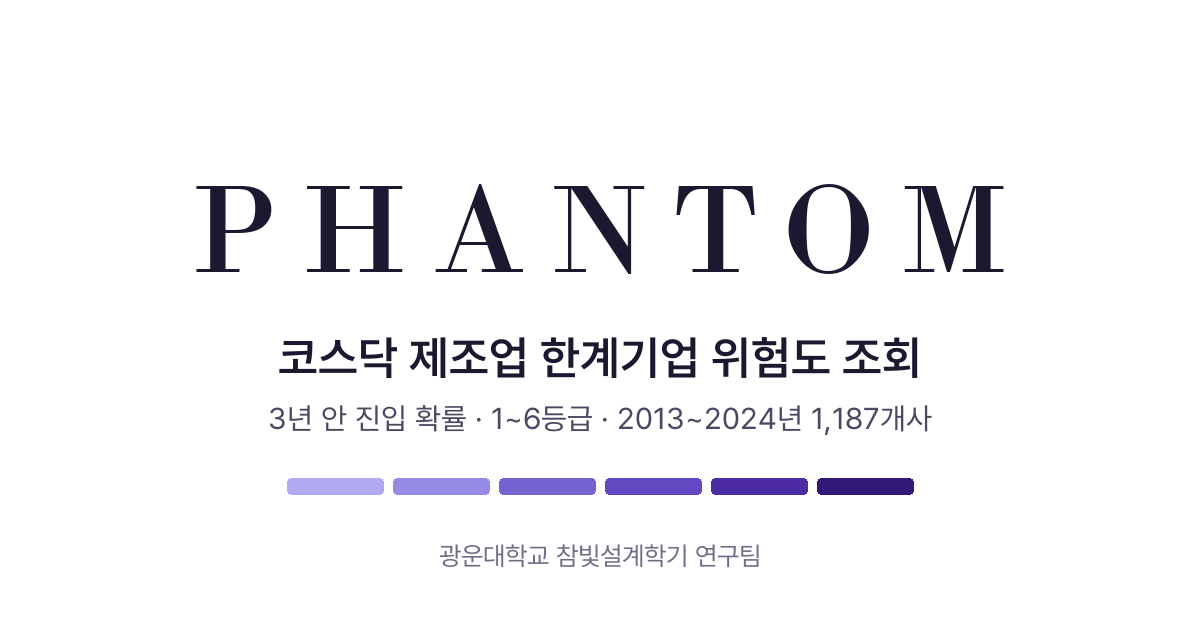
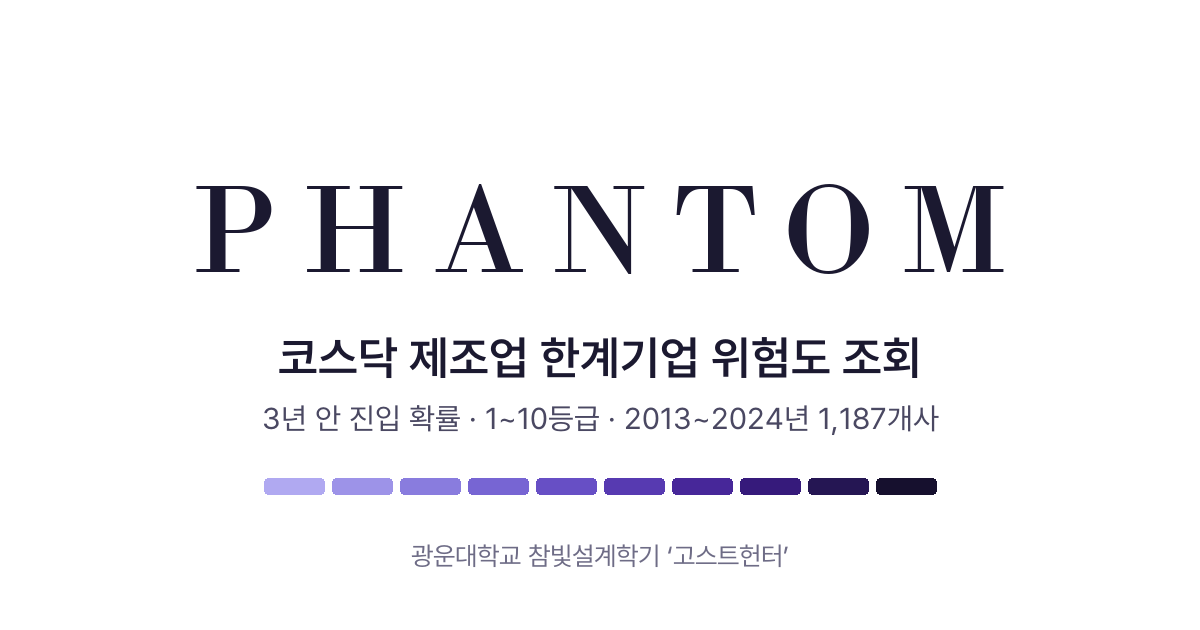
만든 곳을 '고스트헌터'로 바꾸고 공유 미리보기 그림을 10단계로 다시 만듦
- 첫 화면 아래 줄·모형 안내 '만든 곳': 광운대학교 참빛설계학기 ‘고스트헌터’
- og.png: 1~10등급, 10단계 색 막대, 새 이름
- app.js 캐시 버전 20261123b

diff --git a/assets/app.js b/assets/app.js
@@ -202,7 +202,7 @@ function renderHome() {
       ${searchForm('q')}
       <div class="examples"><span class="ex-label">예시</span>${ex}</div>
     </main>
-    <footer class="home-foot">${S.meta.asof}년 결산 공시를 바탕으로 한 연구 모형의 추정치이며, 투자 권유나 신용평가가 아닙니다.<br>광운대학교 참빛설계학기 연구팀</footer>
+    <footer class="home-foot">${S.meta.asof}년 결산 공시를 바탕으로 한 연구 모형의 추정치이며, 투자 권유나 신용평가가 아닙니다.<br>광운대학교 참빛설계학기 ‘고스트헌터’</footer>
   </div>`;
   bindSearch(app.querySelector('[data-search]'));
   if (matchMedia('(hover: hover) and (pointer: fine)').matches) app.querySelector('#q').focus();
@@ -607,7 +607,7 @@ function renderAbout() {
       <p>재무 상태를 통제하면 정책금융 보유는 진입과 뚜렷한 연관이 없었습니다(세 유형 결합 p = 0.53). 메자닌을 발행한 해에는 재무 상태가 같아도 3년 안 진입 오즈가 약 1.8배 높았습니다. 그래도 표본 밖 예측력은 이자상환 상태와 재무 변수가 대부분을 설명합니다.</p>
       <p>정책금융은 받고 있었는지만 관찰했고, 새로 받은 시점과 금액은 반영하지 않았습니다. 등급은 ${S.meta.asof}년 결산 공시로 계산한 추정치입니다. 실제 결과는 ${S.meta.asof_outcome}년 결산까지, 상장 상태는 ${F.date(S.meta.asof_status)} 기준으로 확인했고, 평가 뒤에 상장폐지된 기업은 기업 화면에 따로 알립니다.</p>
     </div></section>
-    <section class="block"><h2>만든 곳</h2><p class="lede">광운대학교 참빛설계학기 연구팀, 2026년 11월</p></section>
+    <section class="block"><h2>만든 곳</h2><p class="lede">광운대학교 참빛설계학기 ‘고스트헌터’, 2026년 11월</p></section>
     ${footNote()}</main>`;
   bindSearch(app.querySelector('[data-search]'));
   finishPage();

diff --git a/index.html b/index.html
@@ -33,6 +33,6 @@
 <div id="notice" class="notice-bar" role="status" hidden></div>
 <div id="app"></div>
 <noscript><p style="padding:24px">PHANTOM은 자바스크립트가 켜져 있어야 동작합니다.</p></noscript>
-<script type="module" src="assets/app.js?v=20261123"></script>
+<script type="module" src="assets/app.js?v=20261123b"></script>
 </body>
 </html>
